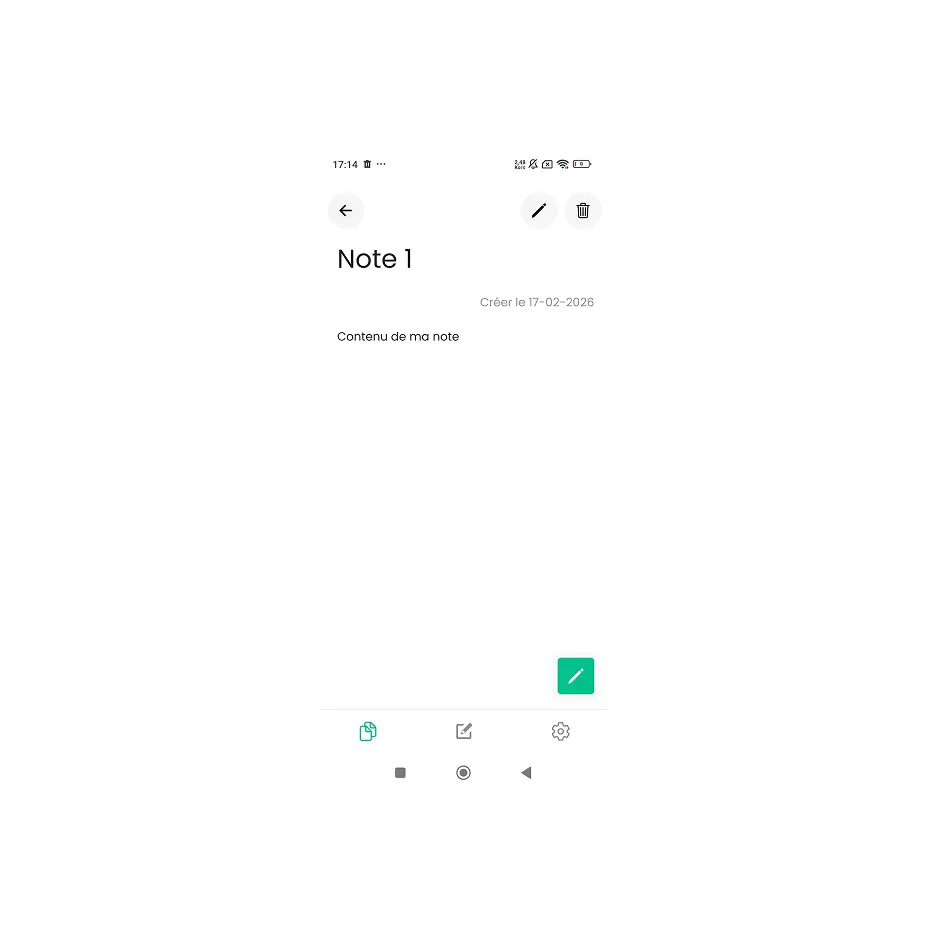
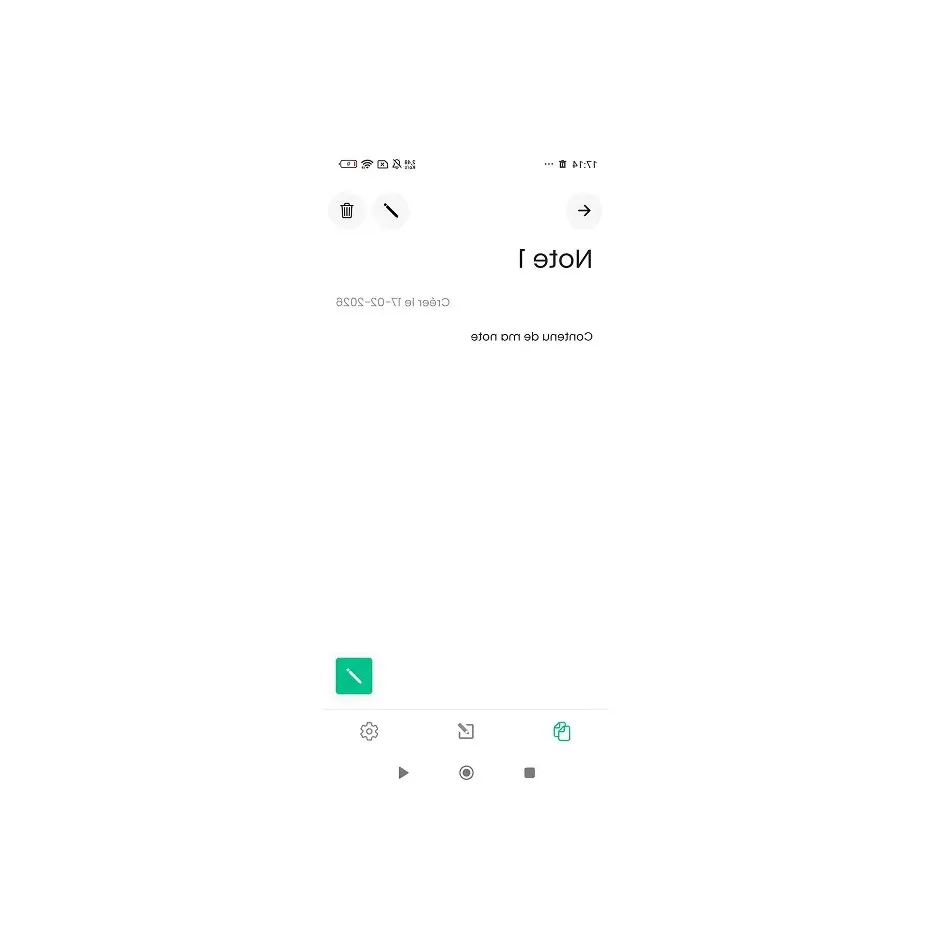
improve the mobile project back visibility

diff --git a/src/data/projects.ts b/src/data/projects.ts
@@ -230,6 +230,31 @@ export const projects:ProjectProps[] = [
         ] 
     },
     {
+        title: 'noteApp',
+        color: '#ff0051',
+        type: 'mobile',
+        imgUrl: [
+            require('../assets/images/noteAppFront.webp'), 
+            require('../assets/images/noteAppBack.webp'), 
+            require('../assets/images/noteAppRight.webp'), 
+            require('../assets/images/noteAppLeft.webp'), 
+        ],
+        description: "10 écrans pour une application web de commande de pizzas",
+        features: [
+            'Optimisation du parcours de commande (UX)',
+            'Mise en valeur visuelle des produits',
+            'Design de l\'interface du panier', 
+        ],
+        url: 'https://expo.dev/accounts/brel/projects/noteApp/builds/aceb2bbc-31d6-4b33-b532-9fb6309631cb',
+        githubUrl: 'https://github.com/brelnosse/noteApp',
+        skills: [
+            {
+                icon: faFigma,
+                text: 'Figma'
+            }
+        ] 
+    },
+    {
         title: 'ArchiveX',
         color: '#ff0051',
         type: 'desktop',
